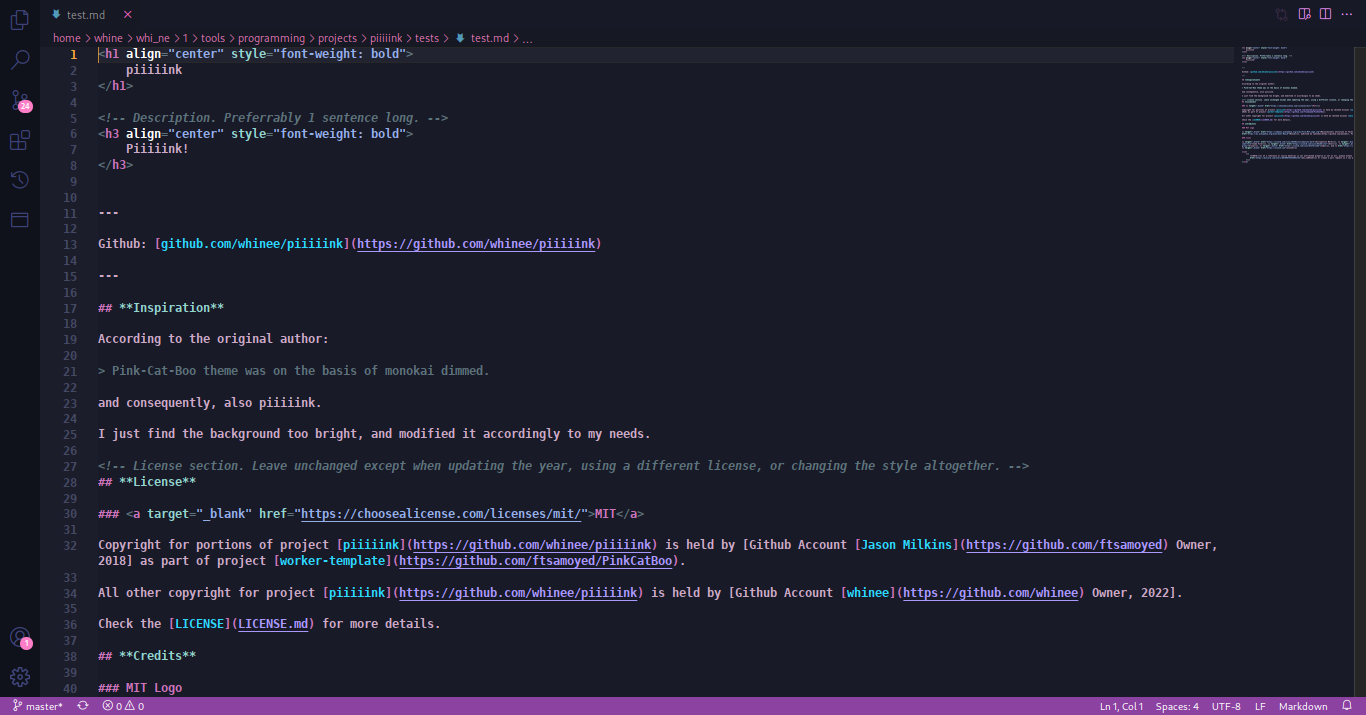
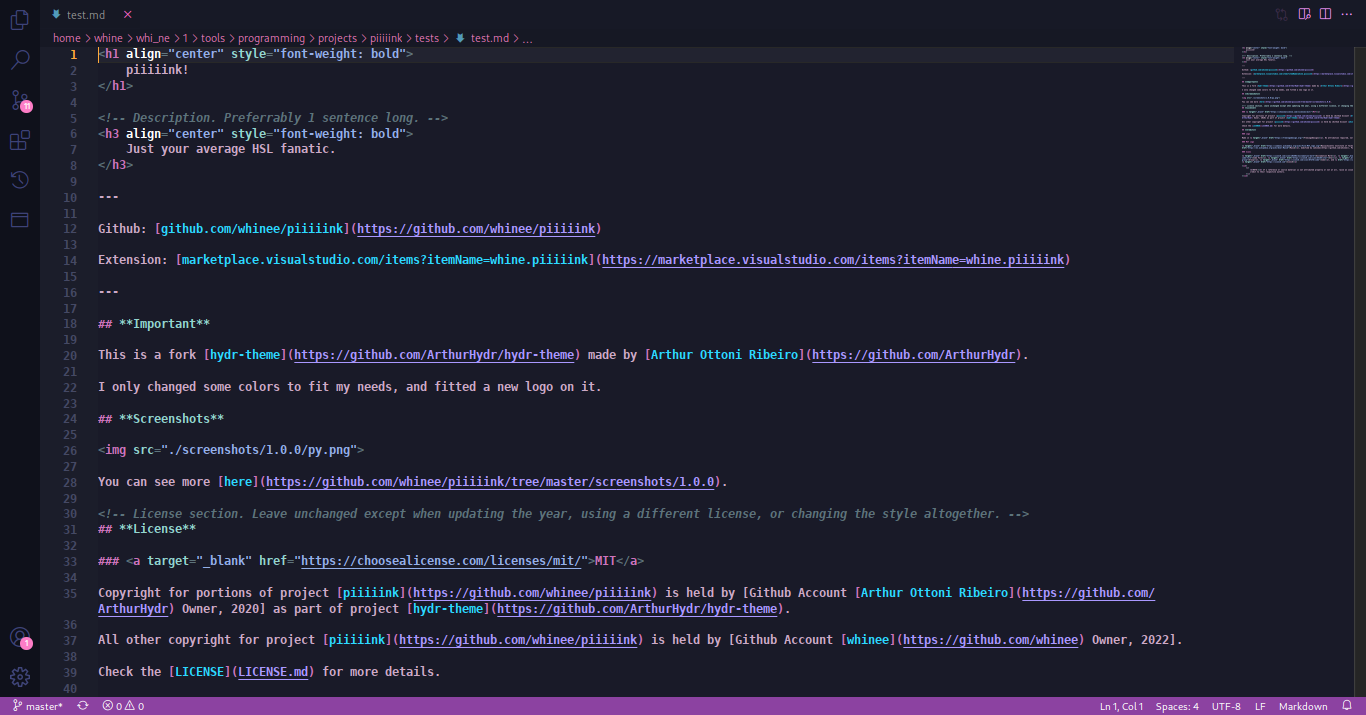
push

diff --git a/README.md b/README.md
@@ -50,6 +50,13 @@ I only changed some colors to fit my needs, and fitted a new logo on it.
 
 You can see more [here](https://github.com/whinee/piiiiink/tree/master/screenshots/1.0.0).
 
+<sub>
+    <i>
+        <b>DISCLAIMER:</b> I do not take credit for the code used as a sample for the screenshots. I mostly own all of them. If it is not however, it is indicated otherwise, including the link to the source of the code.
+    </i>
+</sub>
+
+
 <!-- License section. Leave unchanged except when updating the year, using a different license, or changing the style altogether. -->
 ## **License**
 
